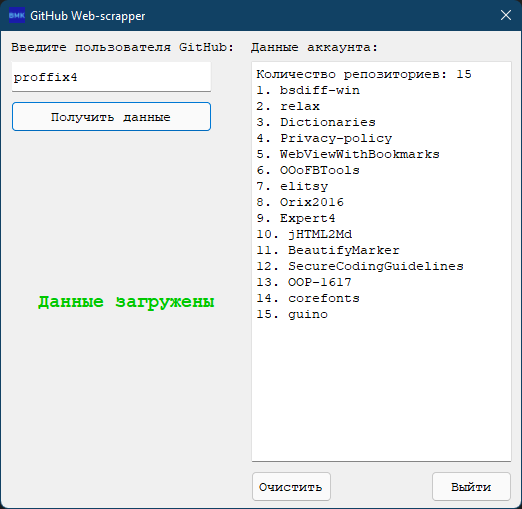
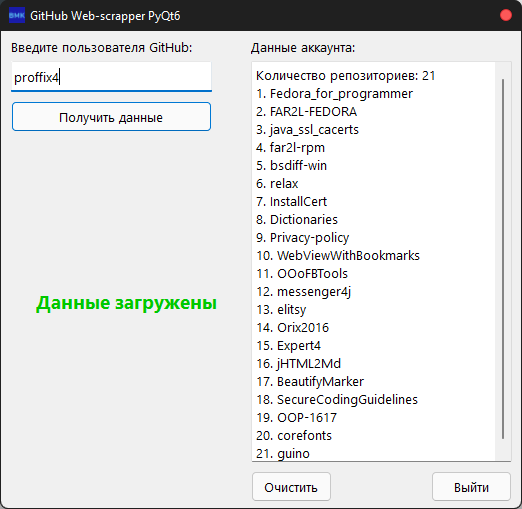
commit

diff --git a/main.py b/main.py
@@ -1,7 +1,6 @@
 import sys
-# noinspection PyCompatibility
-from urllib.request import urlopen  # Для загрузки содержимого страницы с заданного URL
 
+import requests  # Для загрузки содержимого страницы с заданного URL
 from PyQt6 import QtWidgets
 from PyQt6.QtCore import Qt
 from PyQt6.uic import loadUi
@@ -22,31 +21,24 @@ class Main(QtWidgets.QDialog):
         try:
             self.label_status.setText("Данные загружаются")
             QtWidgets.QApplication.setOverrideCursor(Qt.CursorShape.WaitCursor)  # Изменение формы курсора
-            self.label_status.setStyleSheet('color: rgb(100, 100, 100); bold')
+            self.label_status.setStyleSheet('color: rgb(100, 100, 100); bold')  # Установка стиля (цвета и жариности)
             username = str(self.lineEdit_username.text())
-            github_user = 'https://github.com/' + username
-            sauce = urlopen(github_user).read()
-            soup = BeautifulSoup(sauce, 'lxml')  # lxml это парсер
+            # Ссылка на страницу с репозиториями пользователя
+            user_repositories = 'https://github.com/' + username + "?tab=repositories"
+            sauce = requests.get(user_repositories)  # Метод get() отправляет GET-запрос на указанный url.
+            soup = BeautifulSoup(sauce.text, 'lxml')  # lxml это парсер
+            # Возврат содержимого из компонента разметки "span" и класса "Counter"
             repo_amount = int(soup.find('span', class_='Counter').text)
             self.textEdit_info.setText("Количество репозиториев: " + str(repo_amount))
-            user_repositories = github_user + "?tab=repositories"
-            sauce = urlopen(user_repositories).read()
-            soup = BeautifulSoup(sauce, 'lxml')
             repo_arr = [0]
+            #  Находит все компоненты <a>, со свойством itemprop="name codeRepository"
             tags = soup.find_all('a', itemprop="name codeRepository")
             for tag in tags:
-                if tag.text != "":
-                    repo_arr.append(tag.text.lstrip())
-            k = 2
+                repo_arr.append(tag.text.lstrip())
             while len(repo_arr) <= repo_amount:
-                repo_tab_url = 'https://github.com/' + "?page=" + str(k) + "&tab=repositories"
-                k += 1
-                sauce = urlopen(repo_tab_url).read()
-                soup = BeautifulSoup(sauce, 'lxml')
                 tags = soup.find_all('a', itemprop="name codeRepository")
                 for tag in tags:
-                    if tag.text != "":
-                        repo_arr.append(tag.text.lstrip())
+                    repo_arr.append(tag.text.lstrip())
             for i in range(1, len(repo_arr)):
                 header = str(i) + ". " + str(repo_arr[i])
                 self.textEdit_info.append(header)
